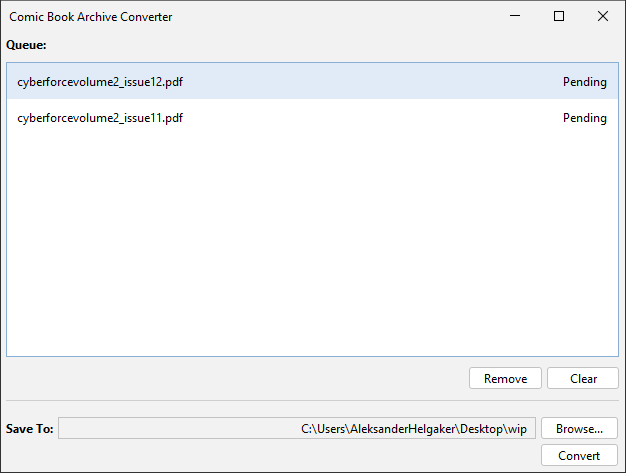
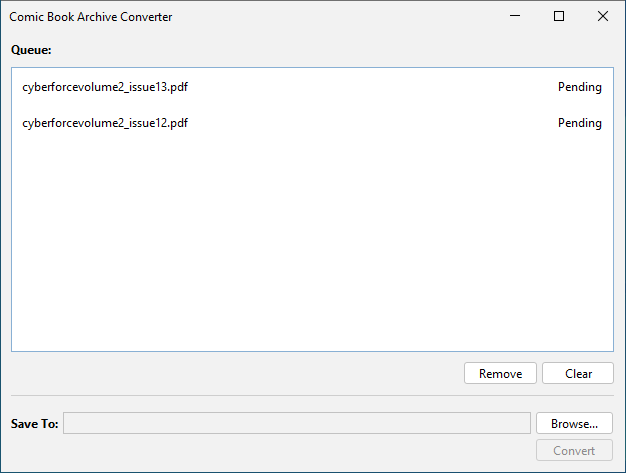
Increase the padding of the MainPanel view (and update the screenshot in the readme).

Changed region(s): [[0.0, 0.0888, 1.0, 1.0], [0.0, 0.9767, 0.0304, 1.0]]

diff --git a/src/main/java/io/aleksander/view/mainpanel/MainPanel.java b/src/main/java/io/aleksander/view/mainpanel/MainPanel.java
@@ -4,6 +4,7 @@
 
 package io.aleksander.view.mainpanel;
 
+import javax.swing.border.*;
 import io.aleksander.model.Conversion;
 
 import java.awt.*;
@@ -86,6 +87,7 @@ public class MainPanel extends JPanel {
     //======== this ========
     setMinimumSize(new Dimension(640, 480));
     setPreferredSize(new Dimension(640, 480));
+    setBorder(new EmptyBorder(5, 5, 5, 5));
     setLayout(new GridBagLayout());
     ((GridBagLayout)getLayout()).columnWidths = new int[] {0, 0};
     ((GridBagLayout)getLayout()).rowHeights = new int[] {0, 0, 0, 0, 0, 0};
